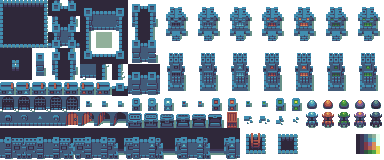
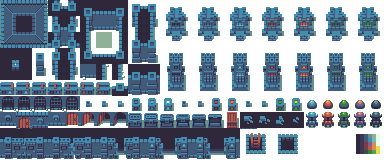
CAmbio de codigo de colisiones así como texturas y varias cosas

Changed region(s): [[0.0, 0.0, 0.125, 0.3125], [0.625, 0.6875, 0.8125, 0.8125], [0.0312, 0.6875, 0.125, 0.8125]]

diff --git a/BaseGame.js b/BaseGame.js
@@ -8,8 +8,8 @@ const TILES = {
     BOTTOM_LEFT_WALL: 48,
     TOP_WALL: [
         { index: 1, weight: 4 },
-        { index: 1, weight: 1 },
-        { index: 1, weight: 1 },
+        { index: 170, weight: 1 },
+        { index: 169, weight: 1 },
         { index: 1, weight: 1 }
     ],
     LEFT_WALL: [
@@ -32,9 +32,10 @@ const TILES = {
     ],
     FLOOR: [
         { index: 25, weight: 20 },
-        { index: 25, weight: 1 },
-        { index: 25, weight: 1 },
-        { index: 25, weight: 1 },
+        { index: 183, weight: 1 },
+        { index: 184, weight: 1 },
+        { index: 185, weight: 1 },
+        { index: 186, weight: 1 }
     ]
 };
 
@@ -49,13 +50,10 @@ class Juego_Principal extends Phaser.Scene {
 
 
     preload() {
-        //this.load.image('tiles', 'Assets/Tiles_map/Sprute.png');
-        //this.load.image('tiles', 'Assets/Tiles_map/sheet.png');
         this.load.spritesheet("personaje", 'Assets/Personaje/knight1.png', {
             frameWidth: 72,
             frameHeight: 72,
         });
-        //this.load.image('tiles', 'Assets/Tiles_Map/dungeon_tiles.png');
         this.load.image('tiles', 'Assets/Tiles_Map/dungeon_sheet.png');
         this.load.atlas('PlayerAnimation', 'Jugador/Animaciones/Animacion_Knight.png', 'Jugador/Animaciones/Animacion_Knight.json')
     }
@@ -164,16 +162,22 @@ class Juego_Principal extends Phaser.Scene {
                             }
                         } */
         }, this);
+        
 
-        this.layer.setCollisionByExclusion([25, 207]);
+
+
+        this.layer.setCollisionByExclusion([25, 207,183,184,185,186]);
         if (!debug) {
             this.layer.forEachTile(function (tile) { tile.alpha = 0; });
         }
         let playerList = ["Idle_Down", "walk_down", "idle_upward", "walk_up", "idle_upward", "idle_left", "walk_left", "idle_right", "walk_right", "attack_down", "attack_up", "attack_left", "attack_right", "action_down", "action_up", "action_left", "action_right"]
         var playerRoom = this.mazmorra.rooms[0];
 
-        this.jugador = new jugador(this, this.mapa.tileToWorldX(playerRoom.x + 1), this.mapa.tileToWorldY(playerRoom.y + 1), "personaje");
+        //Se crea al jugador 
+        this.jugador = new jugador(this, this.mapa.tileToWorldX(playerRoom.x + 2), this.mapa.tileToWorldY(playerRoom.y + 2), "personaje");
         this.jugador.animationCharacter(playerList);
+
+
         if (!debug) {
             this.setRoomAlpha(playerRoom, 1); // Muestra la primera habitación
         }
@@ -185,14 +189,14 @@ class Juego_Principal extends Phaser.Scene {
         this.cam.scrollY = this.jugador.y - this.cam.height * 0.5;
 
 
-        var help = this.add.text(450, 16, 'Usa WASD para moverte', {
+        var info = this.add.text(400, 16, 'Usa WASD para moverte', {
             fontSize: '25px',
-            padding: { x: 10, y: 5 },
+            padding: { x: 5, y: 5 },
             backgroundColor: '#ffffff',
             fill: '#000000'
         });
 
-        help.setScrollFactor(0);
+        info.setScrollFactor(0);
 
         /*      var gui = new dat.GUI();
      
@@ -210,12 +214,13 @@ class Juego_Principal extends Phaser.Scene {
 
 
     }
-    update(time, delta) {
+    update(time) {
+        //Se actuliza la posisición del jugador
         this.jugador.updatePlayerMovement(time);
-
         var playerTileX = this.mapa.worldToTileX(this.jugador.x);
         var playerTileY = this.mapa.worldToTileY(this.jugador.y);
-        var room = this.mazmorra.getRoomAt(playerTileX, playerTileY);//Un metodo que ayuda a generar las habitaciones
+
+        var room = this.mazmorra.getRoomAt(playerTileX, playerTileY);//Un metodo que ayuda a generar las habitaciones creando el cuarto al momento que el jugador entra a la habitación
 
         if (room && this.activeRoom && this.activeRoom !== room)//Hace que el cuarto anterior se oscurezca
         {
@@ -227,12 +232,12 @@ class Juego_Principal extends Phaser.Scene {
 
         this.activeRoom = room;
 
-        // Smooth follow the player
+        // La camara sigue al jugador
         var smoothFactor = 0.9;
-
         this.cam.scrollX = smoothFactor * this.cam.scrollX + (1 - smoothFactor) * (this.jugador.x - this.cam.width * 0.5);
         this.cam.scrollY = smoothFactor * this.cam.scrollY + (1 - smoothFactor) * (this.jugador.y - this.cam.height * 0.5);
     }
+
     setRoomAlpha(room, alpha) {
         this.mapa.forEachTile(function (tile) {
             tile.alpha = alpha;
@@ -243,7 +248,6 @@ class Juego_Principal extends Phaser.Scene {
         // nonNull = true, don't return null for empty tiles. This means null will be returned only for
         // tiles outside of the bounds of the mapa.
         var tile = this.mapa.getTileAtWorldXY(worldX, worldY, true);
-
         if (tile && !tile.collides) {
             return true;
         }
@@ -251,10 +255,6 @@ class Juego_Principal extends Phaser.Scene {
             return false;
         }
     }
-
-
-
-
 }
 
 

diff --git a/Jugador/jugador.js b/Jugador/jugador.js
@@ -3,6 +3,10 @@ class jugador extends Phaser.Physics.Arcade.Sprite {
         super(scene, x, y, key);
         scene.add.existing(this)
         scene.physics.add.existing(this, false)
+        scene.physics.add.collider(this, this.scene.layer);
+        //Se cambia el tamaño al hitbox del personaje así como tambien la posición
+        this.body.setSize(10,10);
+        this.body.setOffset(45, 70);
         this.lastMoveTime = 0;
         this.velocity = 500;
     }
@@ -28,47 +32,30 @@ class jugador extends Phaser.Physics.Arcade.Sprite {
     }
     
     updatePlayerMovement() {
-        var tw = this.scene.mapa.tileWidth/2;
-        var th = this.scene.mapa.tileHeight/2;
-        //var repeatMoveDelay = 100;
         this.setVelocityX(0);
         this.setVelocityY(0);
-        
+
         this.teclas = this.scene.input.keyboard.addKeys("W,A,S,D");
         if (this.teclas.S.isDown) {
-            if (this.scene.isTileOpenAt(this.x, this.y + th)) {
-                //this.y += th;
                 this.setVelocityY(350)
-                //this.lastMoveTime = time;
                 console.log(this.x, this.y)
                 this.play(this.animationNames["walk_down"], true);
-            }
         }
         else if (this.teclas.W.isDown) {
-            if (this.scene.isTileOpenAt(this.x, this.y - th)) {
-                /*                     this.y -= th;
-                                this.lastMoveTime = time; */
+
                 this.setVelocityY(-350);
                 this.play(this.animationNames["walk_up"], true);
-            }
+            
         }
-
-
         if (this.teclas.A.isDown) {
-            if (this.scene.isTileOpenAt(this.x, this.y)) {
-                /*                     this.x -= tw;
-                                this.lastMoveTime = time; */
                 this.setVelocityX(-350)
                 this.play(this.animationNames["walk_left"], true);
-            }
+            
         }
         else if (this.teclas.D.isDown) {
-            if (this.scene.isTileOpenAt(this.x + tw, this.y)) {
-                /*                     this.x += tw;
-                                this.lastMoveTime = time; */
                 this.play(this.animationNames["walk_right"], true);
                 this.setVelocityX(350)
-            }
+            
         }
 
         if(!this.teclas.S.isDown && !this.teclas.W.isDown && !this.teclas.A.isDown && !this.teclas.D.isDown){
